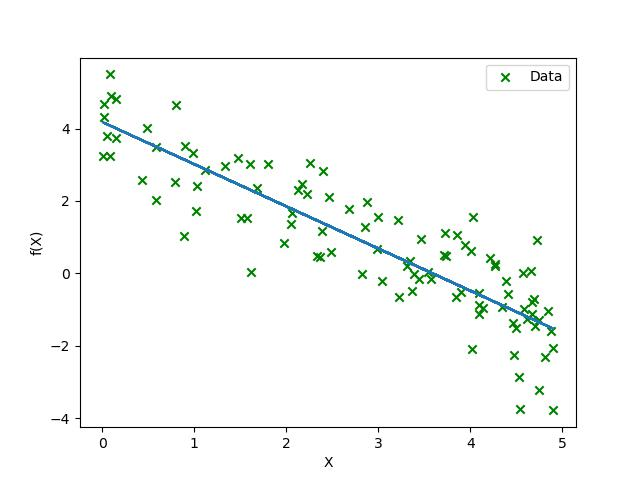
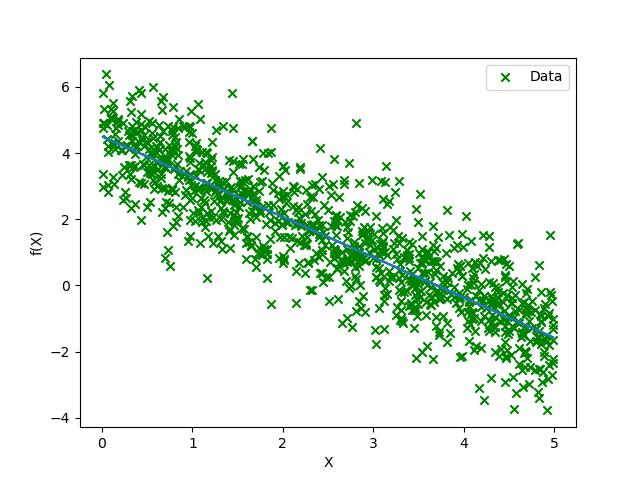
linear regression done

diff --git a/Linear_Regression.py b/Linear_Regression.py
@@ -1,7 +1,7 @@
 import numpy as np
 import matplotlib.pylab as pl
 
-input_data=np.loadtxt('data_for_linear_regression.txt')
+input_data=np.loadtxt('data_for_linear_regression_1000.txt')
 
 #print(input_data[:,1])
 
